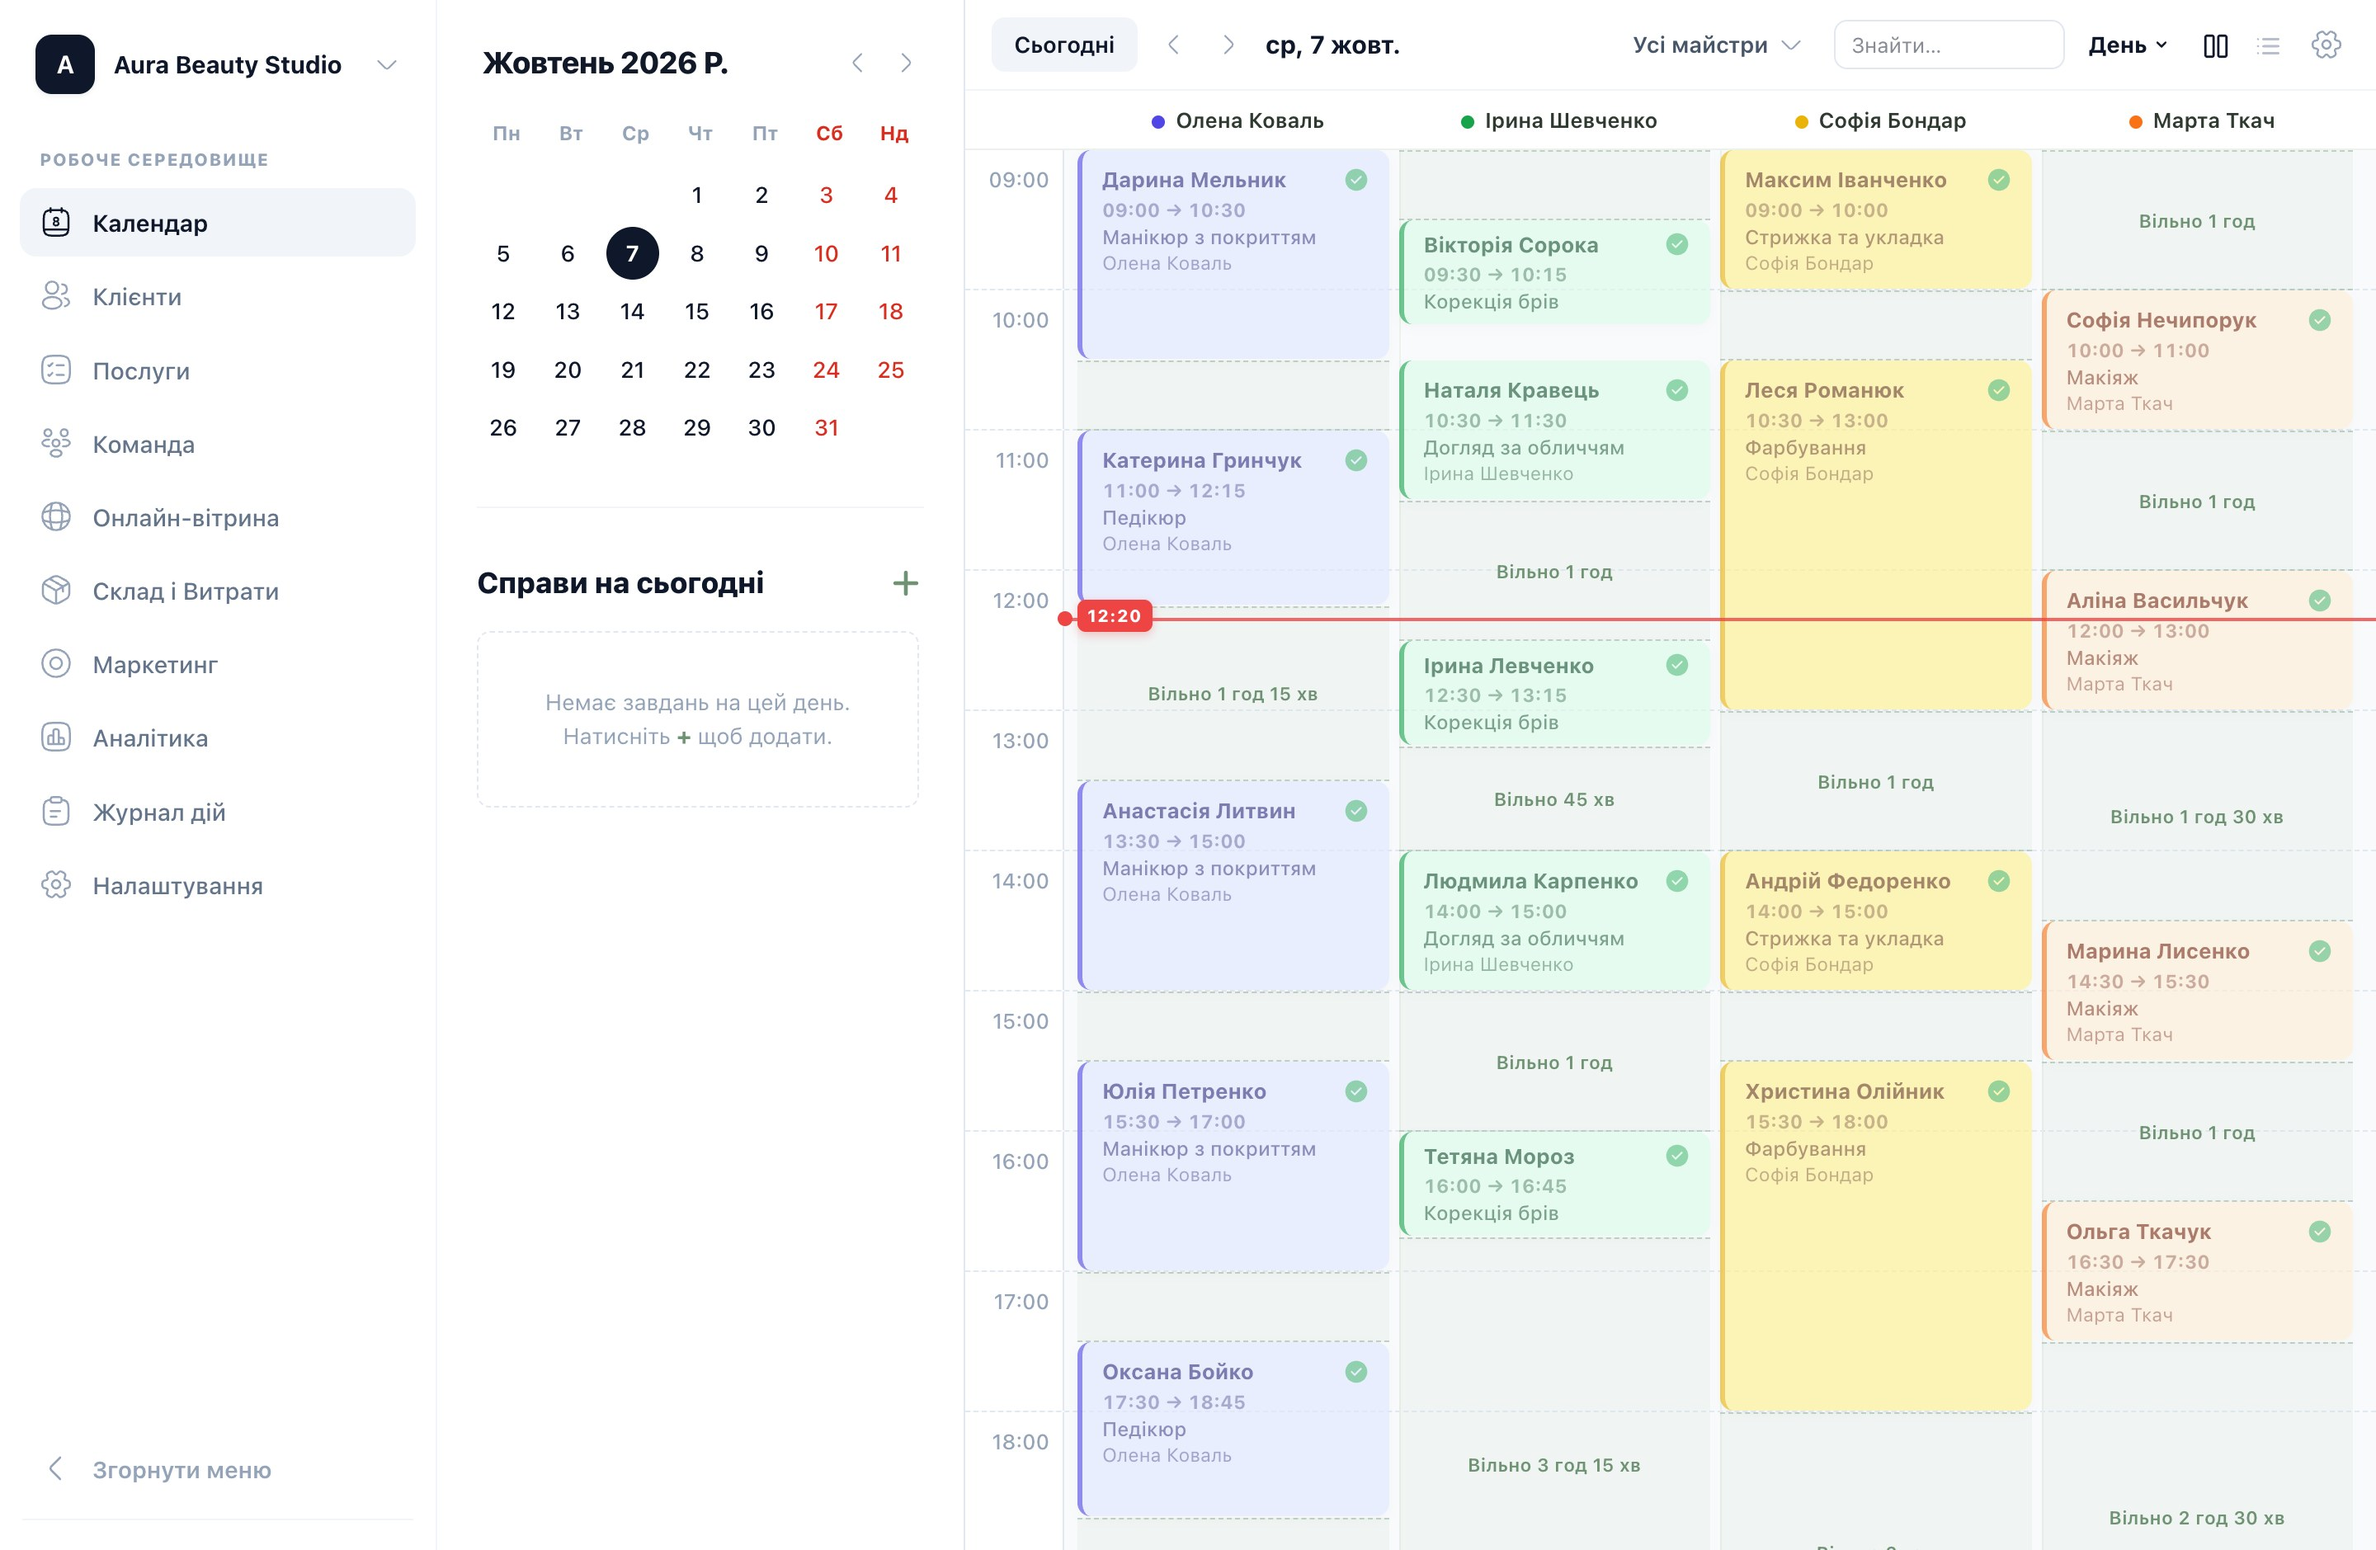
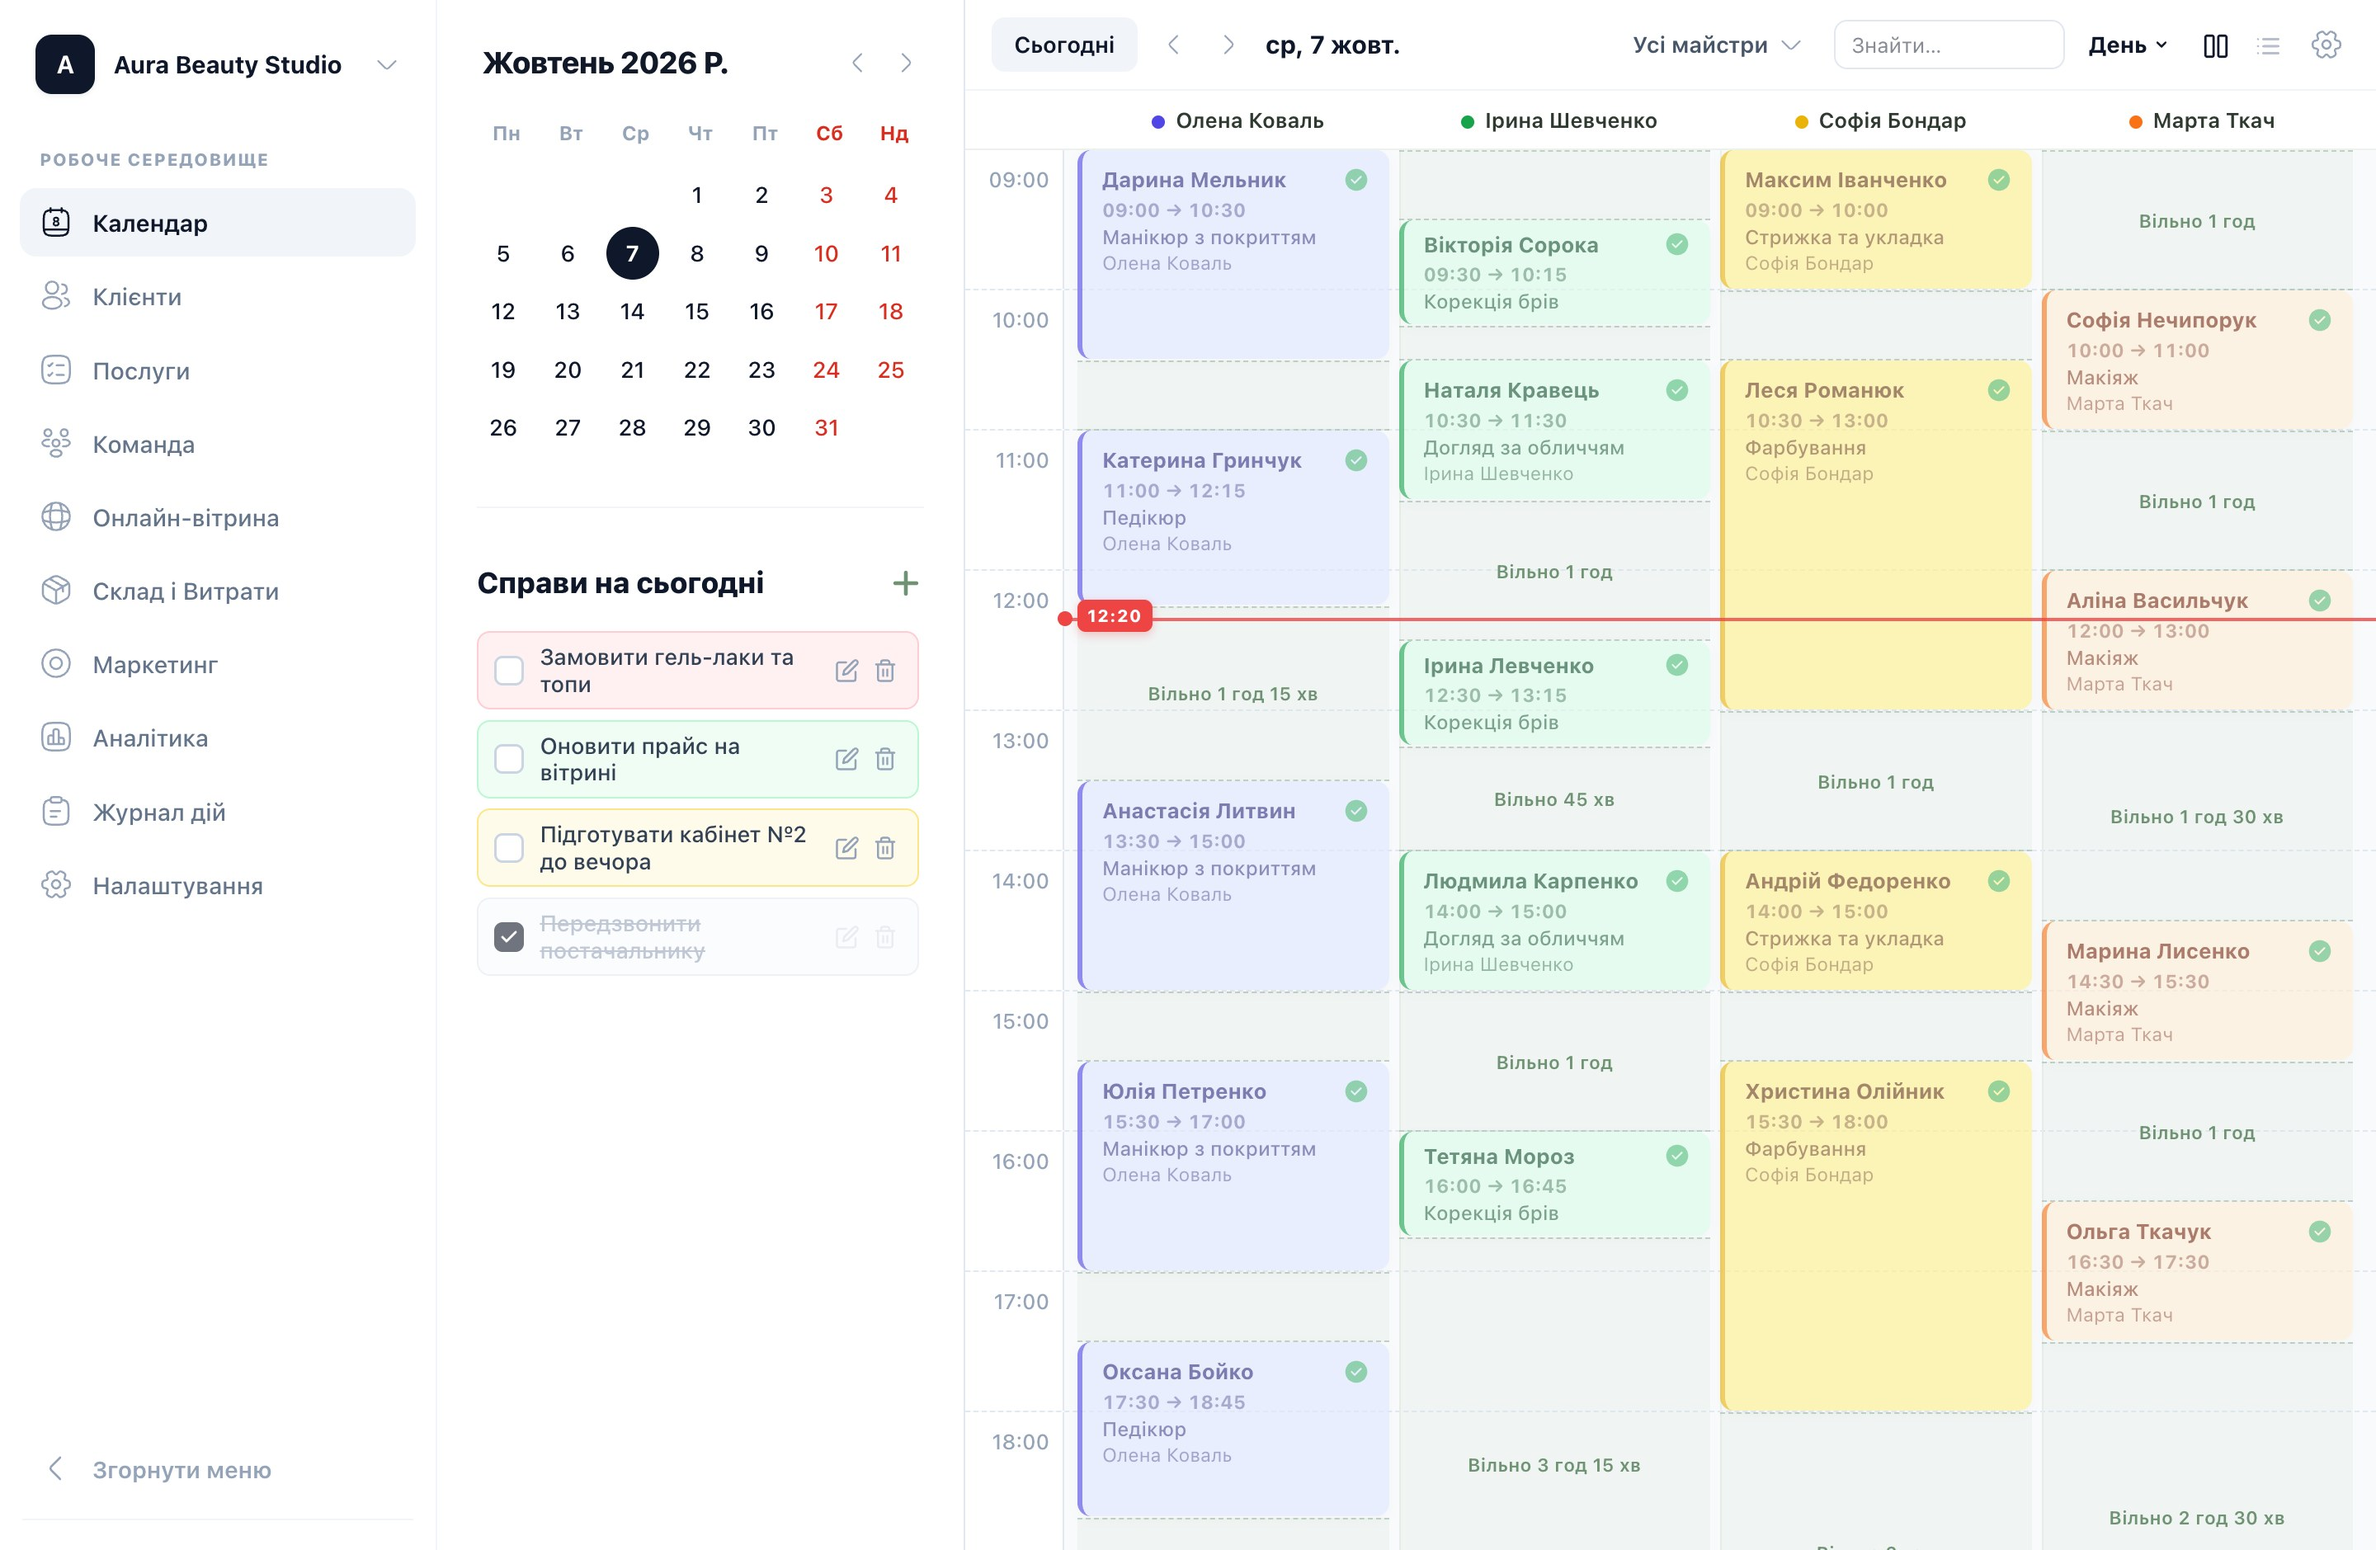
Calendar: free-time zones also for gaps of 15+ minutes; home showcase without the toast and the address bar text, screenshot with today's to-dos

Changed region(s): [[0.1875, 0.4013, 0.375, 0.6173]]

diff --git a/bookera-frontend/src/components/home/BusinessShowcase.tsx b/bookera-frontend/src/components/home/BusinessShowcase.tsx
@@ -60,17 +60,13 @@ export default function BusinessShowcase() {
 
         <div className="bz-stage" aria-hidden>
           <div className="bz-browser bz-a" style={{ ['--d' as string]: '0.15s' }}>
-            <div className="bz-bar"><i /><i /><i /><span>bookera.app/cabinet</span></div>
+            <div className="bz-bar"><i /><i /><i /></div>
             <Image src="/home/cabinet-calendar-v2.jpg" alt="" width={2880} height={1879} sizes="(max-width: 1100px) 90vw, 640px" className="bz-shot" />
           </div>
           <div className="bz-phone bz-a" style={{ ['--d' as string]: '0.35s' }}>
             <div className="bz-screen">
               <Image src="/home/cabinet-mobile-v2.jpg" alt="" width={1170} height={2410} sizes="200px" className="bz-shot" />
             </div>
-          </div>
-          <div className="bz-toast bz-a" style={{ ['--d' as string]: '0.7s' }}>
-            <span className="bz-dot"><span /></span>
-            <div><b>Новий запис</b><small>Дарина · манікюр, завтра 11:00</small></div>
           </div>
         </div>
       </div>
@@ -114,7 +110,6 @@ export default function BusinessShowcase() {
         }
         .bz-bar { display: flex; align-items: center; gap: 6px; height: 34px; padding: 0 14px; background: #F4F6F4; border-bottom: 1px solid #E6EBE6; }
         .bz-bar i { width: 10px; height: 10px; border-radius: 50%; background: #D8DDD8; }
-        .bz-bar span { margin: 0 auto; transform: translateX(-16px); font-size: 0.72rem; color: #8A978D; background: #fff; border-radius: 6px; padding: 3px 28px; }
         .bz-shot { display: block; width: 100%; height: auto; }
         /* Телефон: знімок заповнює екран повністю, низ рамки ховається за краєм секції */
         .bz-phone {
@@ -124,21 +119,11 @@ export default function BusinessShowcase() {
         }
         .bz-screen { position: relative; overflow: hidden; border-radius: 29px; aspect-ratio: 9 / 18.5; background: #fff; }
         .bz-screen .bz-shot { position: absolute; inset: 0; width: 100%; height: 100%; object-fit: cover; object-position: top center; }
-        .bz-toast {
-          position: absolute; top: 0.2rem; right: 2rem; display: flex; align-items: center; gap: 0.7rem; padding: 0.7rem 0.95rem 0.7rem 0.8rem;
-          background: rgba(255,255,255,0.92); backdrop-filter: blur(10px); border: 1px solid rgba(22,33,26,0.08); border-radius: 14px;
-          box-shadow: 0 18px 36px -14px rgba(22,33,26,0.35);
-        }
-        .bz-toast b { display: block; font-size: 0.82rem; color: #16211A; }
-        .bz-toast small { display: block; font-size: 0.72rem; color: #66756A; margin-top: 1px; }
-        .bz-dot { position: relative; width: 9px; height: 9px; border-radius: 50%; background: #5E7A61; flex-shrink: 0; }
-        .bz-dot span { position: absolute; inset: 0; border-radius: 50%; border: 1.5px solid #5E7A61; animation: bzPulse 2.4s ease-out infinite; }
-        @keyframes bzPulse { from { transform: scale(1); opacity: 0.8; } to { transform: scale(3); opacity: 0; } }
 
         /* Телефон: лише телефон по центру під текстом, низ рамки за краєм секції */
         @media (max-width: 999px) {
           .bz-stage { min-height: 0; justify-content: center; padding-top: 0.5rem; }
-          .bz-browser, .bz-toast { display: none; }
+          .bz-browser { display: none; }
           .bz-phone { position: relative; left: 0; bottom: 0; margin: 0.5rem 0 -4.5rem; width: min(250px, 66vw); }
         }
 
@@ -148,7 +133,6 @@ export default function BusinessShowcase() {
         @keyframes bzUp { from { opacity: 0; transform: translateY(18px); } to { opacity: 1; transform: none; } }
         @media (prefers-reduced-motion: reduce) {
           .bz .bz-a, .bz.in .bz-a { opacity: 1; transform: none; animation: none; }
-          .bz-dot span { animation: none; }
         }
       `}</style>
     </section>

diff --git a/bookera-frontend/src/components/cabinet/CalendarTab.tsx b/bookera-frontend/src/components/cabinet/CalendarTab.tsx
@@ -1112,10 +1112,10 @@ const handleSaveShifts = async () => {
     const gaps: { start: number; end: number }[] = [];
     let cursor = dayStart;
     for (const b of busy) {
-      if (b.s - cursor >= 30) gaps.push({ start: cursor, end: b.s });
+      if (b.s - cursor >= 15) gaps.push({ start: cursor, end: b.s });
       cursor = Math.max(cursor, b.e);
     }
-    if (dayEnd - cursor >= 30) gaps.push({ start: cursor, end: dayEnd });
+    if (dayEnd - cursor >= 15) gaps.push({ start: cursor, end: dayEnd });
 
     // Порожній день - це не «вікно», а просто вільний день: підсвічувати
     // його цілком означало б кричати там, де й так усе видно.
